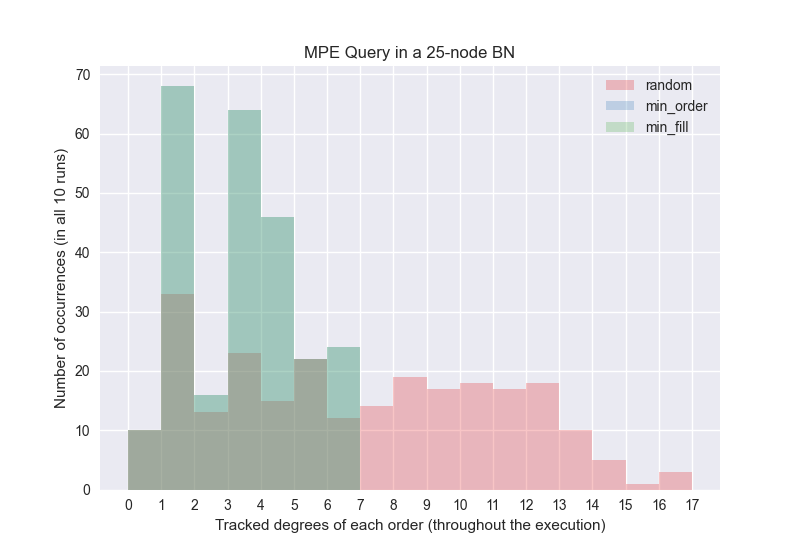
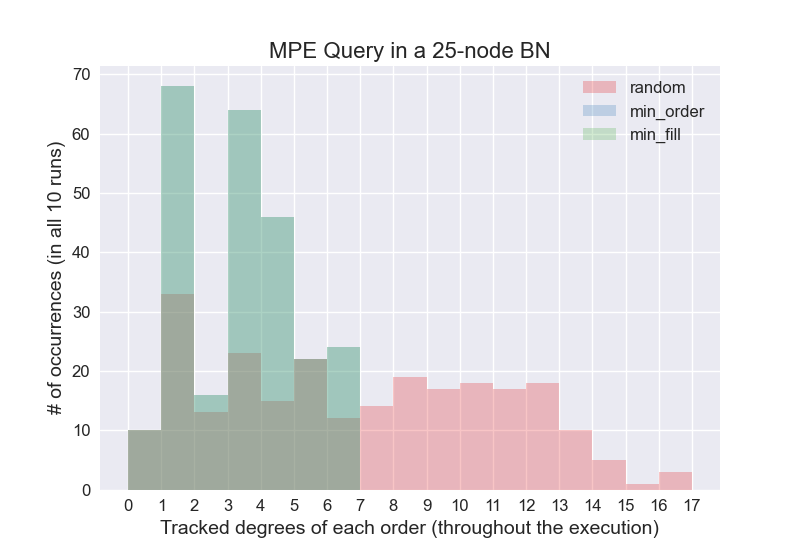
update fonts in graphs

diff --git a/helper_functions.py b/helper_functions.py
@@ -17,12 +17,25 @@ FILE_NAME_RESULTS_CSV = '/run_{0}.csv'
 FILE_RESULTS = '/run_*.csv'
 FILE_NAME_QUERY_CSV = '/query_{0}'
 
+def set_fonts():
+    SMALL_SIZE =12
+    MEDIUM_SIZE = 14
+    BIGGER_SIZE = 16
+
+    plt.rc('font', size=SMALL_SIZE)          # controls default text sizes
+    plt.rc('axes', titlesize=SMALL_SIZE)     # fontsize of the axes title
+    plt.rc('axes', labelsize=MEDIUM_SIZE)    # fontsize of the x and y labels
+    plt.rc('xtick', labelsize=SMALL_SIZE)    # fontsize of the tick labels
+    plt.rc('ytick', labelsize=SMALL_SIZE)    # fontsize of the tick labels
+    plt.rc('legend', fontsize=SMALL_SIZE)    # legend fontsize
+    plt.rc('figure', titlesize=BIGGER_SIZE)  # fontsize of the figure title
 
 def create_lineplots(data, query, Heuristics):
     # Create a color palette
     palette = plt.get_cmap('Set1')
     # Change the style of plot
     plt.style.use('seaborn')
+    set_fonts()
 
     res = {} 
     for index, i in enumerate(Heuristics): 
@@ -37,11 +50,11 @@ def create_lineplots(data, query, Heuristics):
         plt.plot(res['x' + i], res['y' + i], label = "%s" % i.lower(), marker='o', ms=3, color=palette(index), linewidth=1, alpha=0.9) #, color=color[int(i)-1])
 
         
-    plt.xlabel('Number of variables (nodes)')
+    plt.xlabel('# of variables (nodes)')
     # Set the y axis label of the current axis.
     plt.ylabel('Time')
     # Set a title of the current axes.
-    plt.title('%s Query' % query)
+    plt.title('%s Query' % query, fontsize=16)
     # show a legend on the plot
     plt.legend()
     # Display a figure.
@@ -52,6 +65,7 @@ def create_histchart(data, query, Heuristics, n_node):
     palette = plt.get_cmap('Set1')
     # Change the style of plot
     plt.style.use('seaborn')
+    set_fonts()
 
     res = {} 
     bins= set({})
@@ -68,9 +82,9 @@ def create_histchart(data, query, Heuristics, n_node):
     # Set the x axis label of the current axis.
     plt.xlabel('Tracked degrees of each order (throughout the execution)')
     # Set the y axis label of the current axis.
-    plt.ylabel('Number of occurrences (in all 10 runs)')
+    plt.ylabel('# of occurrences (in all 10 runs)')
     # Set a title of the current axes.
-    plt.title('%s Query in a %s-node BN' % (query, n_node))
+    plt.title('%s Query in a %s-node BN' % (query, n_node), fontsize=16)
     # show a legend on the plot
     plt.legend()
     # Display a figure.
@@ -83,6 +97,7 @@ def create_barchart(data, query, Heuristics):
     palette = plt.get_cmap('Set1')
     # Change the style of plot
     plt.style.use('seaborn')
+    set_fonts()
 
     res = {} 
     xtick = set({})
